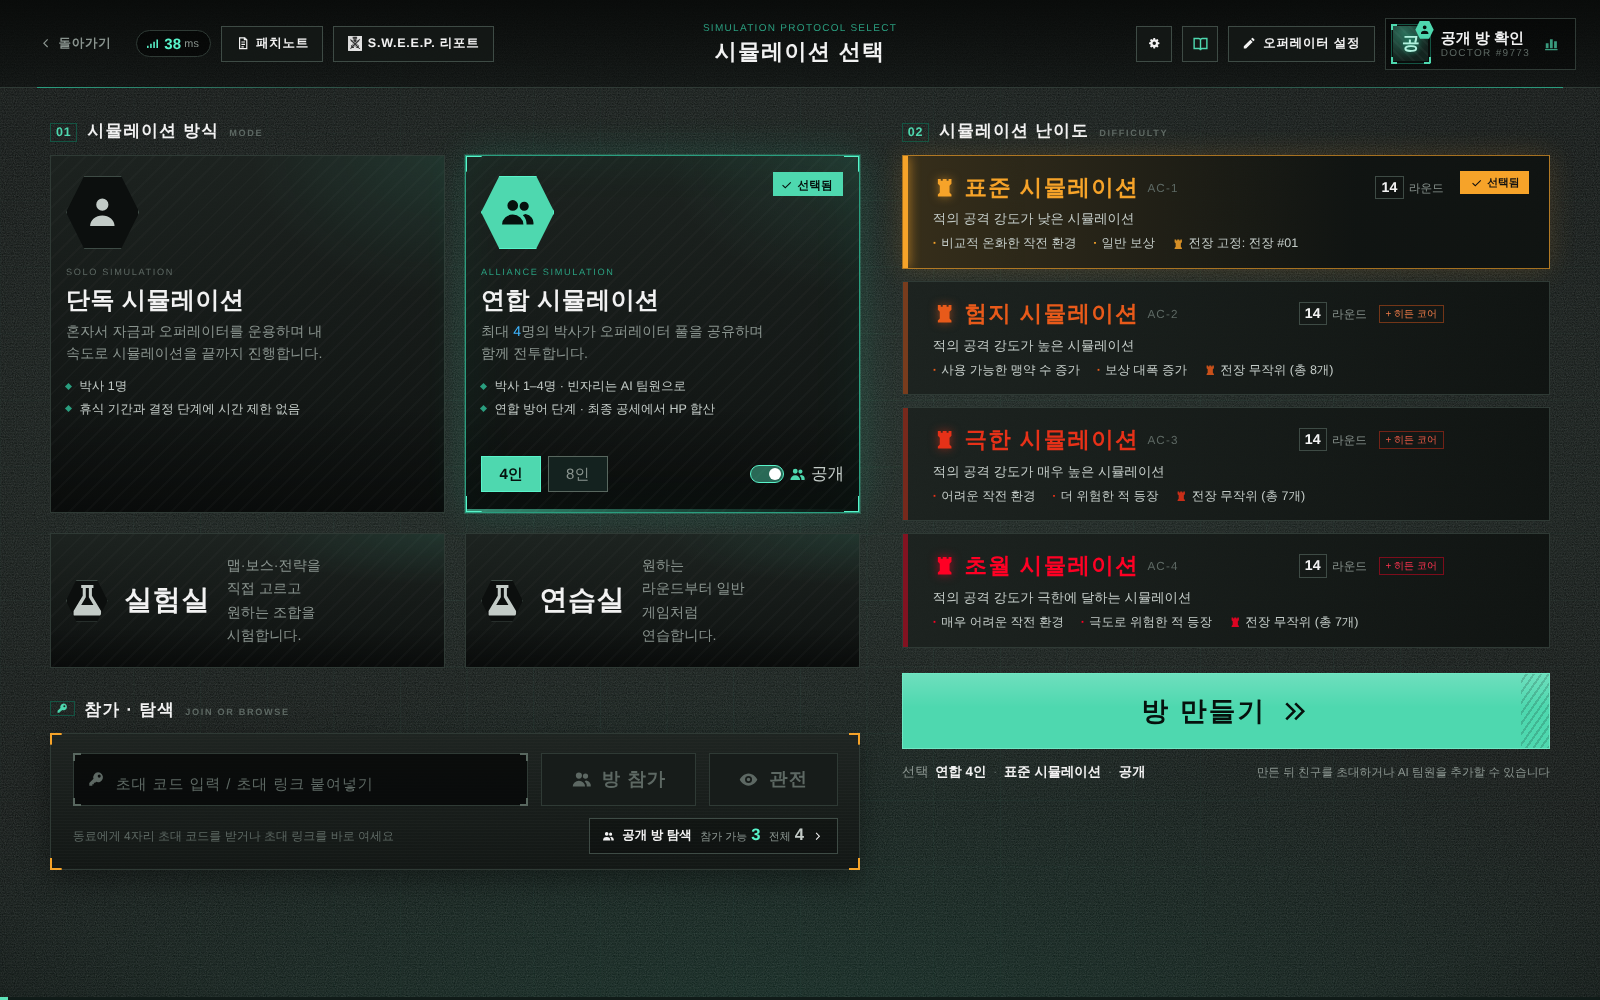
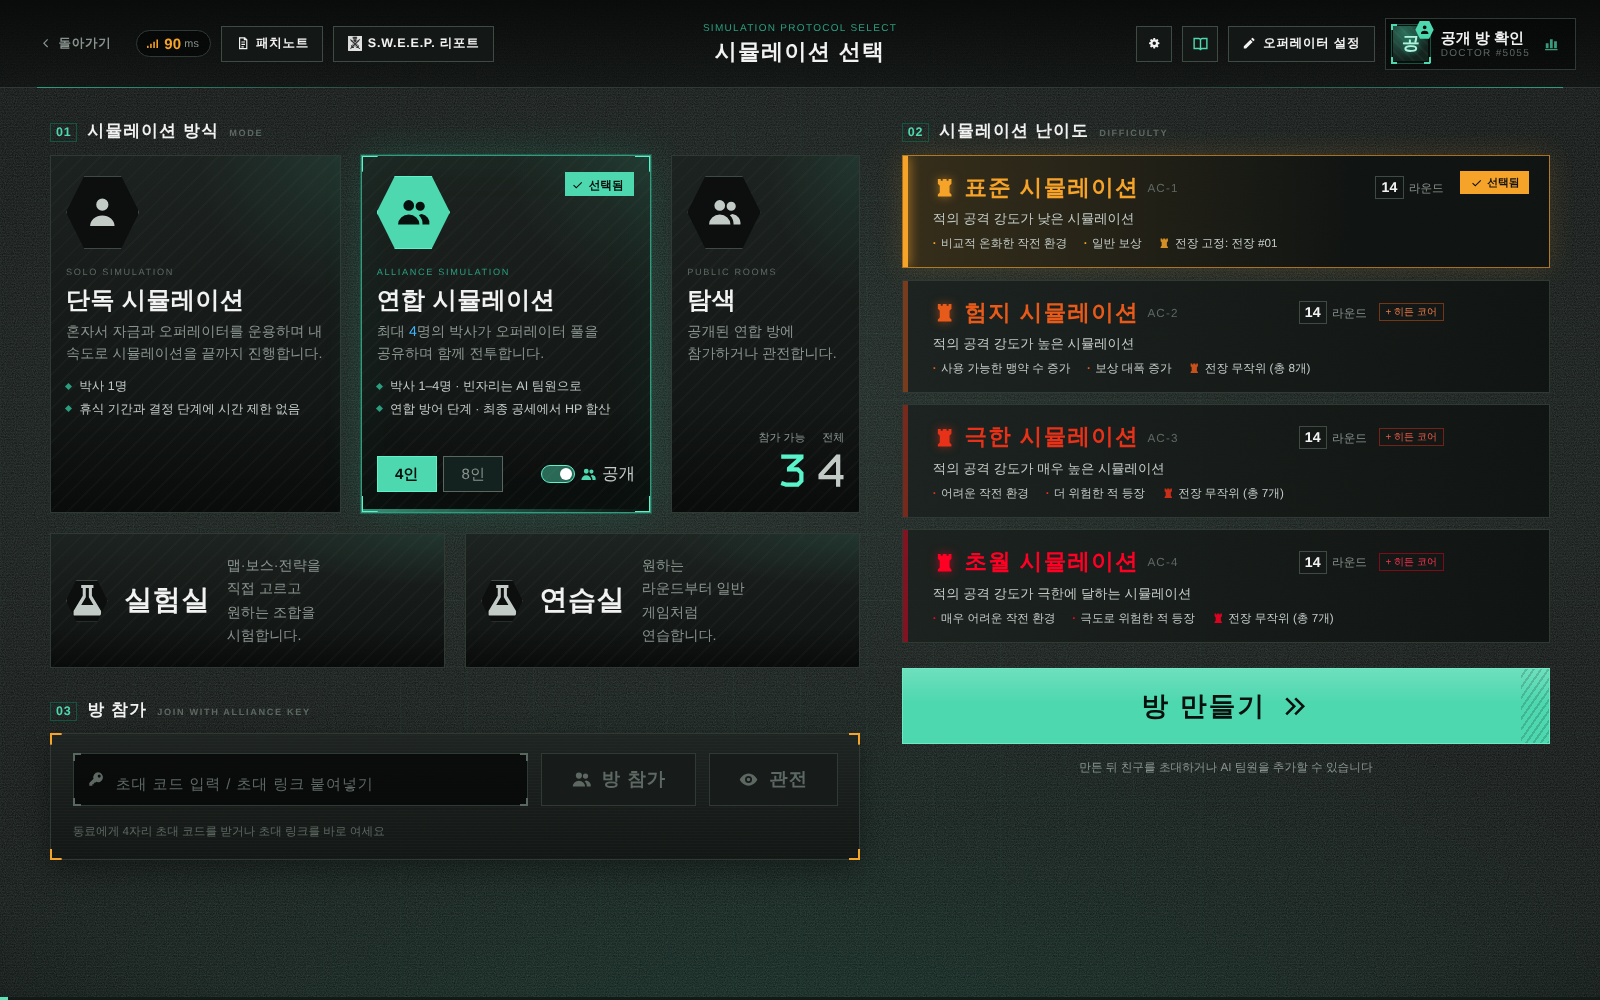
로비 배치를 원래대로 되돌리고 선택 배지·공개 스위치·방 수 표시 등 시각 요소만 통일
Claude-Session: https://claude.ai/code/session_01BQVezmGusymRqu5W6zXEyT

diff --git a/public/css/screens/lobby.css b/public/css/screens/lobby.css
@@ -441,79 +441,19 @@ html:not([lang="ko"]) .mode-cards .mode-card--lab .mode-card__name{font-size:.24
  .practice-screen .practice-options{min-height:140px;}.practice-screen .practice-options:last-of-type{grid-column:span 2;}
 }
 
-/* ── lobby consistency pass: one selected style, switch, summary, join/browse, mobile ── */
-.lobby-screen .mode-cards { grid-template-columns:minmax(0,1fr) minmax(0,1fr); }
-.lobby-screen .mode-cards .mode-card--lab { grid-column:auto; }
-/* selected: same pill badge for mode and difficulty cards */
+/* ── visual consistency (layout unchanged): one selected badge, shared switch, labeled counts ── */
 .lobby-screen .diff-card__check { flex-direction:row; align-self:start; grid-row:1; gap:.05rem; padding:.03rem .1rem; border:1px solid transparent; font-size:calc(.13 * var(--t)); font-weight:700; opacity:0; transition:opacity var(--t-med); }
 .lobby-screen .diff-card__check .icon { width:.16rem; height:.16rem; padding:0; border:0; border-radius:0; background:none!important; color:inherit!important; transform:none!important; }
 .lobby-screen .diff-card__check span { opacity:1; }
 .lobby-screen .diff-card.is-selected .diff-card__check { opacity:1; color:#111; background:var(--d-color); border-color:var(--d-color); }
 .lobby-screen .diff-card__head { grid-column:1; }
-.lobby-screen .diff-card { grid-template-rows:auto auto auto; }
-/* official mode-choice item: tags on the right of the head row */
 .lobby-screen .diff-card__meta { gap:.06rem; }
 .lobby-screen .diff-card__meta > .num { padding:0 .06rem; border:1px solid var(--line-2); }
-.lobby-screen .diff-card__effects { font-size:calc(.15 * var(--t)); color:var(--text-md); }
-/* public toggle uses the shared switch */
+.lobby-screen .diff-card__effects { color:var(--text-md); }
 .lobby-screen .mode-card__public { display:inline-flex; align-items:center; gap:.06rem; }
 .lobby-screen .mode-card__public input.ui-switch { width:34px; height:18px; margin:0; }
-/* create summary */
-.create-box__summary { display:flex; align-items:center; flex-wrap:wrap; gap:.06rem .08rem; margin:0 0 .1rem; font-size:calc(.16 * var(--t)); }
-.create-box__summary b { color:var(--text-hi); }
-.create-box__summary i { color:var(--text-dim); font-style:normal; }
 .lobby-screen .lobby-create { letter-spacing:.08em; }
-/* join / browse */
-.section-label__idx--alt { display:inline-flex; align-items:center; justify-content:center; }
-.lobby-screen .join-foot { font-size:max(.14rem,12px); }
-.lobby-screen .lobby-left > .public-rooms-entry { grid-column:auto; grid-row:auto; flex-direction:row; align-items:center; gap:.2rem; min-height:0; margin-top:.16rem; padding:.16rem .24rem; }
-.lobby-screen .lobby-left > .public-rooms-entry .mode-card__icon { width:.5rem; height:.5rem; flex:none; }
-.lobby-screen .lobby-left > .public-rooms-entry .mode-card__text { flex:1; min-width:0; }
-.lobby-screen .lobby-left > .public-rooms-entry .mode-card__name { font-size:clamp(18px,calc(1.6 * var(--ui-vw, 1vw)),26px); }
-.lobby-screen .public-rooms-entry__total { margin:0; align-self:center; gap:.18rem; }
+.lobby-screen .public-rooms-entry__total { gap:.16rem; }
 .public-rooms-entry__stat { display:flex; flex-direction:column; align-items:flex-end; gap:2px; }
-.public-rooms-entry__stat small { color:var(--text-lo); font-size:max(.13rem,11px); white-space:nowrap; }
-.lobby-screen .public-rooms-entry__count,.lobby-screen .public-rooms-entry__all { font-size:clamp(22px,calc(2.2 * var(--ui-vw, 1vw)),34px); }
+.public-rooms-entry__stat small { color:var(--text-lo); font-size:max(.13rem,11px); white-space:nowrap; letter-spacing:0; font-family:inherit; }
 .lobby-screen .public-rooms-entry__all { color:var(--text-md); }
-/* mobile: single column, nothing squeezed */
-@media (max-width:760px){
- .lobby-screen .lobby-body { grid-template-columns:minmax(0,1fr); gap:18px; padding:12px 16px 24px; }
- .lobby-screen .mode-cards { grid-template-columns:minmax(0,1fr); gap:10px; }
- .lobby-screen .mode-card { min-height:0; }
- .lobby-screen .mode-cards .mode-card__name,.lobby-screen .mode-cards .mode-card--lab .mode-card__name { font-size:22px; white-space:normal; }
- .lobby-screen .mode-cards .mode-card--lab .mode-card__text { grid-template-columns:minmax(0,1fr); }
- .lobby-screen .mode-cards .mode-card--lab .mode-card__desc { display:block; font-size:13px; }
- .lobby-screen .diff-card { padding:12px 12px 12px 18px; }
- .lobby-screen .diff-card__head { flex-wrap:wrap; }
- .lobby-screen .diff-card__name { font-size:20px; white-space:nowrap; letter-spacing:.02em; }
- .lobby-screen .diff-card__meta { margin-left:0; width:100%; }
- .lobby-screen .diff-card__desc { font-size:13px; }
- .lobby-screen .diff-card__effects { font-size:12px; }
- .lobby-screen .join-row { flex-wrap:wrap; }
- .lobby-screen .join-row .field { flex:1 0 100%; }
- .lobby-screen .join-row > * { flex:1; }
- .lobby-screen .join-row .btn { height:44px; }
- .lobby-screen .topbar__title { font-size:18px; }
-}
-/* browse public rooms: compact entry inside the join panel (no extra height) */
-.lobby-screen .join-foot { display:flex; align-items:center; flex-wrap:wrap; gap:.08rem .12rem; }
-.lobby-screen .join-foot > .public-rooms-entry { order:2; margin-left:auto; display:inline-flex; align-items:center; gap:.1rem; padding:.05rem .14rem; min-height:36px; border:1px solid var(--line-2); background:rgba(0,0,0,.25); color:var(--text-hi); font:inherit; font-size:max(.15rem,12px); cursor:pointer; }
-.lobby-screen .join-foot > .public-rooms-entry:hover { border-color:var(--mint-400); }
-.lobby-screen .join-foot .public-rooms-entry__label { font-weight:700; }
-.lobby-screen .join-foot .public-rooms-entry__stat { flex-direction:row; align-items:baseline; gap:4px; }
-.lobby-screen .join-foot .public-rooms-entry__count,.lobby-screen .join-foot .public-rooms-entry__all { font-family:inherit; font-size:max(.2rem,15px); letter-spacing:0; }
-.lobby-screen .join-foot .public-rooms-entry__count { color:var(--mint-400); }
-@media (max-width:760px){
- .lobby-screen .mode-cards > .mode-card-tip { grid-column:1!important; grid-row:auto!important; width:auto!important; justify-self:stretch!important; }
- .lobby-screen .join-foot > .public-rooms-entry { margin-left:0; width:100%; justify-content:space-between; }
-}
-.lobby-screen .create-box__hint { display:flex; align-items:center; justify-content:space-between; flex-wrap:wrap; gap:.04rem .16rem; }
-.lobby-screen .create-box__summary { margin:0; }
-@media (max-height:820px) and (min-width:761px){
- .lobby-screen .mode-cards { margin-bottom:.22rem; }
- .lobby-screen .join-foot > .public-rooms-entry { padding:.03rem .12rem; }
- .lobby-screen .mode-cards .mode-card--lab { padding:.08rem .2rem; }
- .lobby-screen .mode-cards .mode-card--lab .mode-card__desc { line-height:1.35; }
- .lobby-screen .join-panel .panel__body { padding:.14rem .22rem .12rem; gap:.1rem; }
- .lobby-screen .join-foot > .public-rooms-entry { min-height:30px; }
-}

diff --git a/public/js/screens/lobby.js b/public/js/screens/lobby.js
@@ -395,7 +395,6 @@ export function LobbyScreen() {
       </div>
 `;
   if(publicOpen)return html`<${PublicRoomsScreen} headerLeft=${headerLeft(()=>setPublicOpen(false))} headerRight=${headerRight} onJoin=${join} onSpectate=${spectate}/>${sweepOpen?html`<${SweepReport} onClose=${()=>setSweepOpen(false)}/>`:null}`;
-  const summary=[roomMode==='solo'?'단독':roomMode==='coop'?'연합 4인':roomMode==='coop8'?'연합 8인':roomMode==='laboratory'?'실험실':'연습실',DIFFICULTY_NAMES[difficulty],...(['coop','coop8'].includes(roomMode)?[publicOn?'공개':'비공개']:[])];
   return html`<div class="screen lobby-screen">
     <header class="topbar app-topbar">
       ${headerLeft(backToTitle)}
@@ -411,9 +410,10 @@ export function LobbyScreen() {
         <div class="section-label"><span class="section-label__idx num">01</span>模拟方式<${MicroLabel}>MODE<//></div>
         <div class="mode-cards">
           ${MODE_CARDS.map((c) => html`<${ModeCard} key=${c.id} card=${c} selected=${roomMode === c.id || c.id==='coop'&&roomMode==='coop8'} onSelect=${pickMode} coopSize=${coopSize} onCoopSize=${n=>{setCoopSize(n);pickMode(n===8?'coop8':'coop');}} publicOn=${publicOn} onPublicChange=${on=>{setPublicOn(on);savePref('lobby.publicOn',on);}} />`)}
+          <button type="button" class="public-rooms-entry mode-card brackets" onClick=${()=>setPublicOpen(true)}><span class="mode-card__bg" aria-hidden="true"></span><span class="mode-card__icon"><${Icon} name="users"/></span><span class="mode-card__text"><${MicroLabel}>PUBLIC ROOMS<//><span class="mode-card__name">탐색</span><span class="mode-card__desc">공개된 연합 방에 참가하거나 관전합니다.</span></span><span class="public-rooms-entry__total"><span class="public-rooms-entry__stat"><small>참가 가능</small><span class="public-rooms-entry__count" aria-label="참가 가능한 방 수">${conn.status==='online'&&publicRoomCount!==null?publicRoomCount.joinable:'—'}</span></span><span class="public-rooms-entry__stat"><small>전체</small><span class="public-rooms-entry__all" aria-label="전체 방 수">${conn.status==='online'&&publicRoomCount!==null?publicRoomCount.total:'—'}</span></span></span></button>
         </div>
 
-        <div class="section-label lobby-join-label"><span class="section-label__idx section-label__idx--alt"><${Icon} name="key"/></span>참가 · 탐색<${MicroLabel}>JOIN OR BROWSE<//></div>
+        <div class="section-label"><span class="section-label__idx num">03</span>加入同盟<${MicroLabel}>JOIN WITH ALLIANCE KEY<//></div>
         <${Panel} class="join-panel" tone="amber">
           <div class="join-row">
             <${TextField} ascii=${true} size="code" icon="key" value=${code} placeholder="输入同盟密钥 / 粘贴邀请链接"
@@ -424,7 +424,6 @@ export function LobbyScreen() {
             <//>
           </div>
           <div class="join-foot">
-            <button type="button" class="public-rooms-entry" onClick=${()=>setPublicOpen(true)}><${Icon} name="users"/><span class="public-rooms-entry__label">공개 방 탐색</span><span class="public-rooms-entry__stat"><small>참가 가능</small><b class="public-rooms-entry__count num" aria-label="참가 가능한 방 수">${conn.status==='online'&&publicRoomCount!==null?publicRoomCount.joinable:'—'}</b></span><span class="public-rooms-entry__stat"><small>전체</small><b class="public-rooms-entry__all num" aria-label="전체 방 수">${conn.status==='online'&&publicRoomCount!==null?publicRoomCount.total:'—'}</b></span><${Icon} name="chevronRight"/></button>
             ${recent.length ? html`<span class="t-lo">最近的同盟</span>
               ${recent.map((c) => html`<button key=${c} type="button" class="code-chip num" title="填入密钥（不会直接加入）"
                 onClick=${() => setCode(c)}>${c}</button>`)}`
@@ -445,7 +444,6 @@ export function LobbyScreen() {
             <//>
           <//>
           <div class="create-box__hint">
-            <span class="create-box__summary" aria-live="polite"><span class="t-lo">선택</span>${summary.map((x,i)=>html`${i?html`<i aria-hidden="true">·</i>`:null}<b key=${x}>${x}</b>`)}</span>
             ${['laboratory','practice'].includes(roomMode)?html`<span>${roomMode==='practice'?'진입 후 라운드·전장·전략·적 특훈·맹약 밴을 선택합니다.':'진입 후 맵·보스·전략을 선택합니다.'}</span>`:online
               ? html`<span>${roomMode === 'solo' ? '创建后即可开始模拟' : '创建后可邀请好友或添加 AI 队友'}</span>`
               : html`<${Spinner} size="sm" label="CONNECTING" />`}

diff --git a/test/ui/public-rooms.browser.test.js b/test/ui/public-rooms.browser.test.js
@@ -13,7 +13,7 @@ const clients=[];let browser;
 try{
  for(const [i,mode,size,diff] of [[0,'classic','coop','NORMAL'],[1,'augment','coop8','ABYSS'],[2,'classic','coop','HARD'],[3,'augment','coop','NORMAL']]){const c=await TestClient.connect(`ws://127.0.0.1:${srv.port}/ws`);clients.push(c);await c.hello(['박사 민트','박사 프리즘','박사 라임','박사 앰버'][i]);await c.request({t:'room.create',mode:size,difficulty:diff,gameplayMode:mode});await c.request({t:'room.publish'});if(i===3)await c.request({t:'room.start'});}
  browser=await puppeteer.launch({executablePath:'/usr/bin/chromium',headless:true,args:['--no-sandbox','--disable-dev-shm-usage']});const page=await browser.newPage();page.on('pageerror',e=>console.log('PAGEERROR',e.message));await page.setViewport({width:1600,height:1000});await page.setBypassServiceWorker(true);await page.evaluateOnNewDocument(v=>{localStorage.setItem('sp.patchNotes.seenVersion',v);localStorage.setItem('sp.resources.downloadConsent','1');},APP_VERSION);await page.setRequestInterception(true);page.on('request',r=>{const u=new URL(r.url());if(u.hostname!=='127.0.0.1'||u.pathname.endsWith('resource-worker.js'))return r.abort();return r.continue();});await page.goto(srv.url,{waitUntil:'domcontentloaded'});await page.waitForFunction(()=>!!window.__SP__);await page.evaluate(()=>{__SP__.store.patch('session',{entered:true});__SP__.net.setName('공개 방 확인');});await page.waitForSelector('.public-rooms-entry');await page.waitForFunction(()=>document.querySelector('.public-rooms-entry__count').textContent==='3');await page.screenshot({path:out+'/lobby.png'});
- assert.equal(await page.$('.mode-cards .public-rooms-entry'),null,'browse entry lives in the join panel');assert.ok(await page.$('.join-panel .join-foot > .public-rooms-entry .public-rooms-entry__count'));
+ const modeCards=await page.$$eval('.mode-cards > .mode-card-tip:nth-child(1) .mode-card,.mode-cards > .public-rooms-entry',es=>es.map(e=>{const s=getComputedStyle(e),icon=getComputedStyle(e.querySelector('.mode-card__icon')),title=getComputedStyle(e.querySelector('.mode-card__name')),r=e.getBoundingClientRect(),ir=e.querySelector('.mode-card__icon').getBoundingClientRect();return{background:s.backgroundImage,padding:s.padding,icon:icon.clipPath,iconWidth:icon.width,titleSize:title.fontSize,iconTop:Math.round(ir.top-r.top)};}));assert.equal(modeCards.length,2);assert.deepEqual(modeCards[0],modeCards[1]);
  await page.hover('.mode-card-tip:nth-child(3)');assert.equal(await page.$('.mode-card-tip:nth-child(3) .tt-anchor'),null);await page.click('.public-rooms-entry');await page.waitForSelector('.public-room');assert.equal(await page.$('.lobby-screen'),null);assert.equal(await page.$('.modal'),null);assert.ok(await page.$('.public-rooms-screen .lobby-sweep'));assert.ok(await page.$('.public-rooms-screen .lobby-loadout'));assert.ok(await page.$('.public-rooms-screen .me-chip'));assert.equal((await page.$$('.public-room')).length,3);
  await page.click('.public-rooms__filters input');await page.waitForFunction(()=>document.querySelectorAll('.public-room').length===4);
  assert.equal(await page.$('.public-rooms__layouts'),null);assert.equal(await page.$('.public-rooms__note'),null);assert.equal((await page.$$('.public-room__details dt')).length,16);
